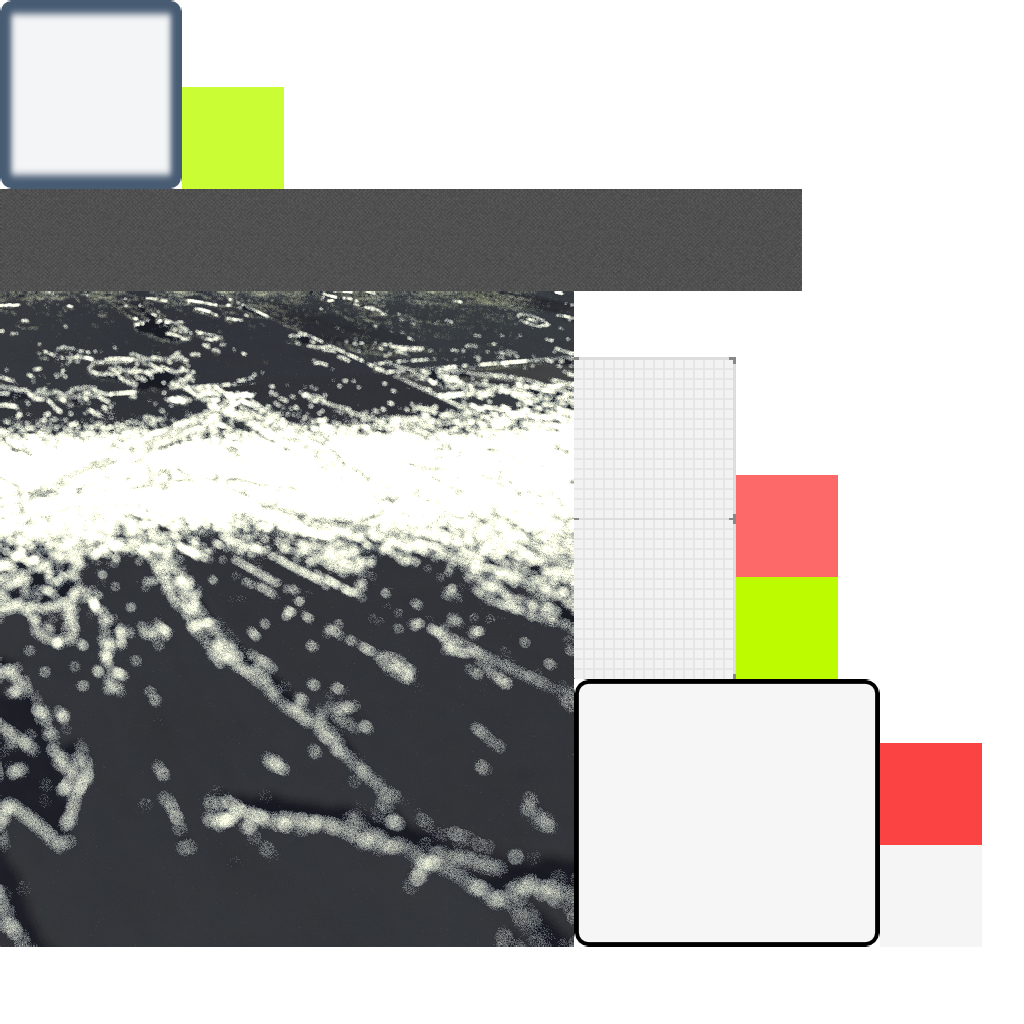
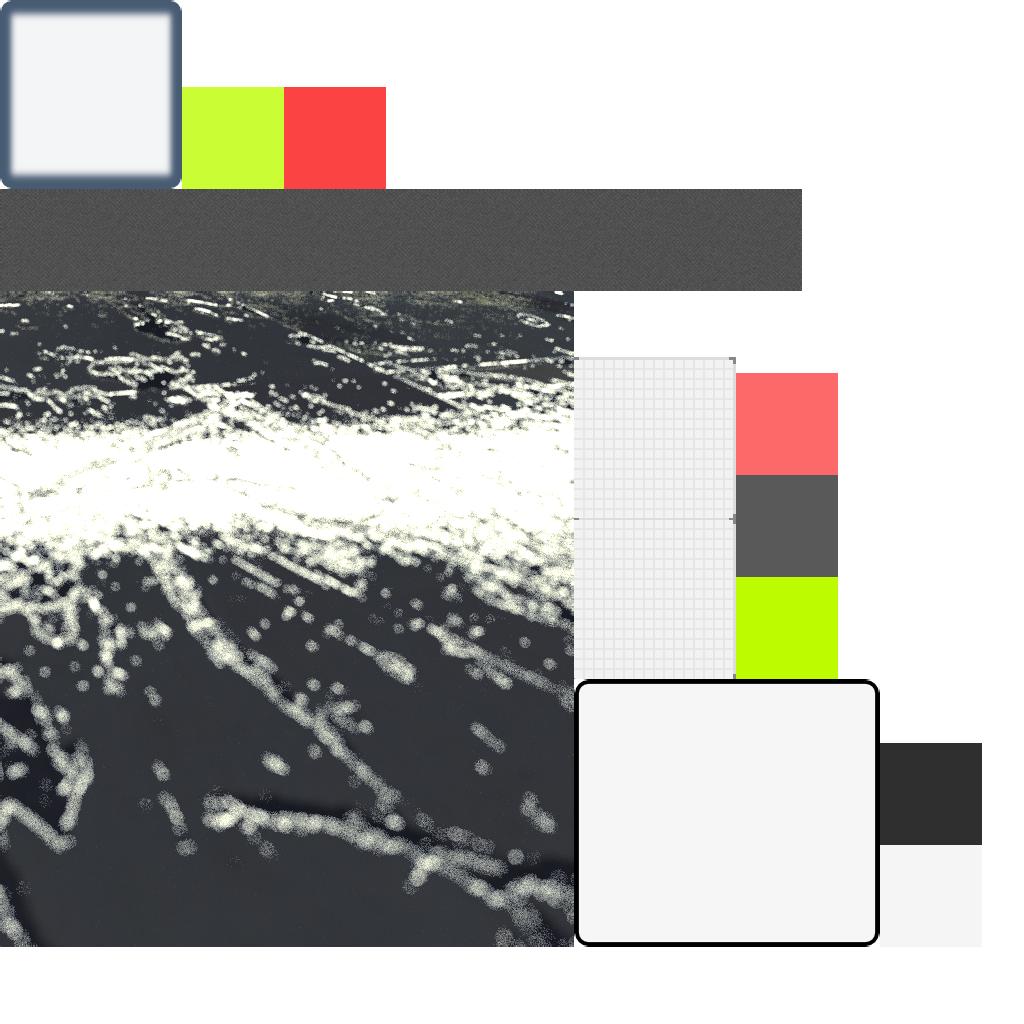
Signed-off-by: Phil Barr <philbarrmail@gmail.com>

Changed region(s): [[0.7188, 0.3438, 0.8438, 0.5625], [0.8438, 0.7188, 0.9688, 0.8438], [0.25, 0.0625, 0.375, 0.1875]]

diff --git a/Calculate/src/com/simplyapped/calculate/screen/stageintro/StageIntroScreen.java b/Calculate/src/com/simplyapped/calculate/screen/stageintro/StageIntroScreen.java
@@ -151,7 +151,7 @@ public class StageIntroScreen extends DefaultScreen
 		
 		title = new Label(String.format("Select %s Cards", StageIntroScreen.this.state.cardsLeftForUserSelect()), skin, "title");
 		title.setAlignment(Align.center);
-		title.getStyle().background = skin.getDrawable("buttonborder");
+		title.getStyle().background = skin.getDrawable("title");
 		titleCell = back.add(title).expandX().fillX().center().top().pad(CalculateGame.SCREEN_HEIGHT/8f);
 		back.row();
 		targetTable = new Table();
@@ -159,8 +159,6 @@ public class StageIntroScreen extends DefaultScreen
 		back.row();
 		back.row();
 		back.add().expand().fill();
-		
-
 		
 		stage.addListener(new ClickListener(){
 			@Override
@@ -344,7 +342,7 @@ public class StageIntroScreen extends DefaultScreen
 		{
 			titleCell.pad(CalculateGame.SCREEN_WIDTH/5f);
 			
-			title.getStyle().background = skin.getDrawable("buttonborder");
+			title.getStyle().background = skin.getDrawable("title");
 			title.setText("\nYour\n\nTarget\n\nNumber\n ");
 			title.setVisible(true);
 			title.getColor().a = 0;
@@ -359,7 +357,7 @@ public class StageIntroScreen extends DefaultScreen
 			int attempts = 0;
 			// try and find a number between min and max range using selected numbers
 			// that doesn't use any of the cards (because then the answer would just be a single card)
-			// have 100 attempts then just give up and use the last one
+			// have 1000 attempts then just give up and use the last one
 			while ((eq.getTotal() < state.getCurrentLevelInfo().getMinRange() || 
 					eq.getTotal() > state.getCurrentLevelInfo().getMaxRange() ||
 					state.getBigCards().contains(eq.getTotal()) || 

diff --git a/Calculate/src/com/simplyapped/calculate/screen/winner/WinnerScreen.java b/Calculate/src/com/simplyapped/calculate/screen/winner/WinnerScreen.java
@@ -76,7 +76,7 @@ public class WinnerScreen extends DefaultScreen
 	    int padding = 20;
 		buttonBorder.setPosition(CalculateGame.SCREEN_WIDTH/2-buttonWidth/2-padding, emptyRowHeight - padding);
 	    buttonBorder.setSize(buttonWidth + padding*2, emptyRowHeight + (buttonHeight));
-	    buttonBorder.setBackground(skin.getDrawable("buttonborder"));
+	    buttonBorder.setBackground(skin.getDrawable("title"));
 		
 	    CelebrationActor lefteffect = new CelebrationActor(skin.getAtlas(), 0, 0, "data/particle/celebrationleft.p", "data/particle");
 	    CelebrationActor righteffect = new CelebrationActor(skin.getAtlas(), CalculateGame.SCREEN_WIDTH, 0, "data/particle/celebrationright.p", "data/particle");
@@ -134,7 +134,6 @@ public class WinnerScreen extends DefaultScreen
 	    playMenu.setSize(buttonWidth, buttonHeight);
 	    playMenu.setPosition(CalculateGame.SCREEN_WIDTH/2-playMenu.getWidth()/2, emptyRowHeight);
 	    stage.addActor(playMenu);
-	    
 	    
 	    Gdx.input.setInputProcessor(stage);
 	    Gdx.input.setCatchBackKey(true);

diff --git a/Calculate/src/com/simplyapped/calculate/screen/stageselect/StageSelectScreen.java b/Calculate/src/com/simplyapped/calculate/screen/stageselect/StageSelectScreen.java
@@ -93,7 +93,7 @@ public class StageSelectScreen extends DefaultScreen
 		rowTable.setBackground(skin.getDrawable("buttonborder"));
 		
 		// buttons
-		TextButton levelButton = new TextButton("" + level, skin, "green");
+		TextButton levelButton = new TextButton("" + level, skin, "level"+level+"button");
 	    levelButton.getLabel().setFontScale(1f);
 	    
 	    rowTable.add(levelButton).width(buttonSize).height(buttonSize/1.3f).align(Align.left).expandX().padLeft(0f).pad(20f);	
@@ -180,7 +180,7 @@ public class StageSelectScreen extends DefaultScreen
 	    	details.add(completed).align(Align.left);
 	    	details.add(completedVal).align(Align.right);
 	    }
-	    details.setBackground(skin.getDrawable("buttonborder"));
+	    details.setBackground(skin.getDrawable("stagedetails"));
 	    details.pad(15f);	   
 	    
 		return details;
